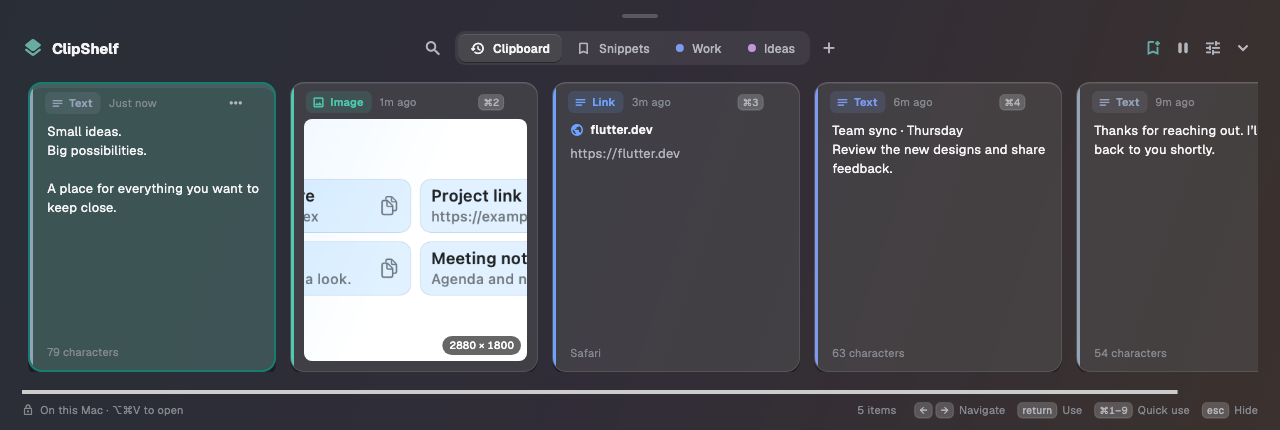
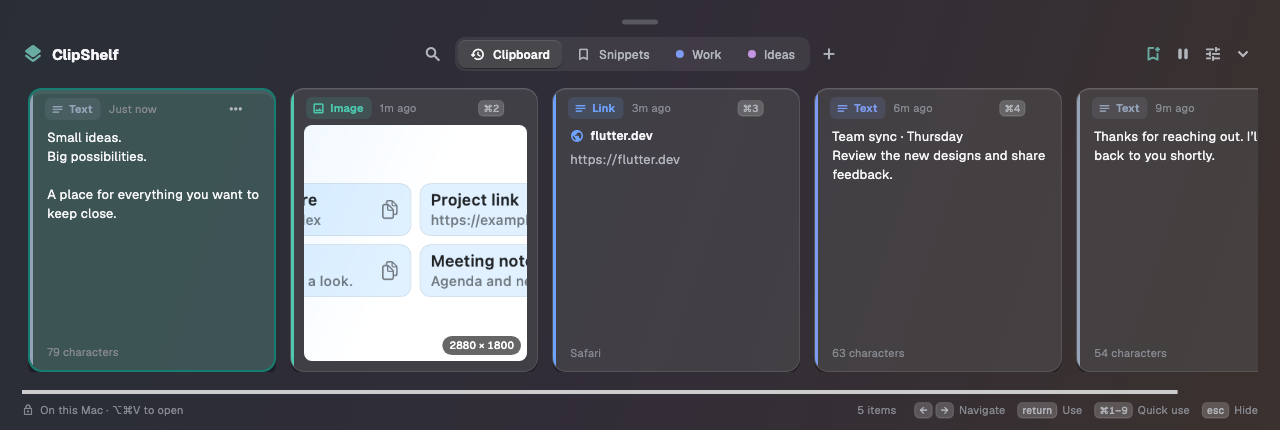
Shelf: ⌥⌘V toggles, slides in and out, handle closes it
- ⌥⌘V now toggles the shelf: it opens it, and closes it when it is
  already showing (like Spotlight and Raycast).
- The shelf slides up and fades in when it opens (0.22 s ease-out) and
  slides down and fades out when it closes (0.18 s ease-in), instead of
  appearing and vanishing. With Reduce Motion it only fades. Reopening
  mid-close cancels the pending hide.
- The grip at the top closes the shelf on a click or a downward drag,
  with hover feedback and a "Close (esc)" tooltip.
- Clicking outside, switching apps, Escape and pasting still close it.

Tests: native checks for the slide frame and Reduce Motion, a widget test
for the handle.

diff --git a/macos/Runner/MainFlutterWindow.swift b/macos/Runner/MainFlutterWindow.swift
@@ -261,7 +261,7 @@ final class ClipboardBridge: NSObject {
     InstallEventHandler(GetApplicationEventTarget(), { _, _, pointer in
       guard let pointer = pointer else { return OSStatus(eventNotHandledErr) }
       let bridge = Unmanaged<ClipboardBridge>.fromOpaque(pointer).takeUnretainedValue()
-      DispatchQueue.main.async { bridge.show() }
+      DispatchQueue.main.async { bridge.toggleShelf() }
       return noErr
     }, 1, &spec, Unmanaged.passUnretained(self).toOpaque(), &handler)
     let result = RegisterEventHotKey(UInt32(kVK_ANSI_V), UInt32(cmdKey | optionKey),
@@ -405,9 +405,49 @@ final class ClipboardBridge: NSObject {
     let wasVisible = window?.isVisible == true
     panelGeneration += 1
     saveFloatingFrame()
-    window?.orderOut(nil)
+    if wasVisible, presentation == "shelf", let window = window {
+      slideShelfOut(window, generation: panelGeneration)
+    } else {
+      window?.orderOut(nil)
+    }
     stopOutsideClickMonitoring()
     if wasVisible { channel.invokeMethod("closed", arguments: nil) }
+  }
+  /// ⌥⌘V opens the shelf, and closes it again when it is already showing.
+  @objc func toggleShelf() {
+    if presentation == "shelf", window?.isVisible == true { dismissPanel() } else { show() }
+  }
+  /// Where the shelf starts (opening) or ends (closing) its slide: a little
+  /// below its resting frame. With Reduce Motion it only fades.
+  static func shelfSlideFrame(_ frame: NSRect, reduceMotion: Bool) -> NSRect {
+    reduceMotion ? frame : frame.offsetBy(dx: 0, dy: -28)
+  }
+  private var reduceMotion: Bool { NSWorkspace.shared.accessibilityDisplayShouldReduceMotion }
+  func slideShelfIn(_ window: NSWindow) {
+    let target = window.frame
+    window.alphaValue = 0
+    window.setFrame(Self.shelfSlideFrame(target, reduceMotion: reduceMotion), display: false)
+    NSAnimationContext.runAnimationGroup { context in
+      context.duration = 0.22
+      context.timingFunction = CAMediaTimingFunction(name: .easeOut)
+      window.animator().setFrame(target, display: true)
+      window.animator().alphaValue = 1
+    }
+  }
+  func slideShelfOut(_ window: NSWindow, generation: Int) {
+    let resting = window.frame
+    NSAnimationContext.runAnimationGroup({ context in
+      context.duration = 0.18
+      context.timingFunction = CAMediaTimingFunction(name: .easeIn)
+      window.animator().setFrame(Self.shelfSlideFrame(resting, reduceMotion: reduceMotion), display: true)
+      window.animator().alphaValue = 0
+    }, completionHandler: { [weak self] in
+      // Reopened mid-animation: the newer session owns the window now.
+      guard let self = self, self.panelGeneration == generation else { return }
+      window.orderOut(nil)
+      window.alphaValue = 1
+      window.setFrame(resting, display: false)
+    })
   }
   func presentPanel() {
     panelGeneration += 1
@@ -468,8 +508,10 @@ final class ClipboardBridge: NSObject {
     if wasQuick, let window = window {
       window.setContentSize(NSSize(width: 1120, height: shelfHeight))
     }
+    let wasHidden = window?.isVisible != true
     positionShelf()
     presentPanel()
+    if wasHidden, let window = window { slideShelfIn(window) } else { window?.alphaValue = 1 }
     channel.invokeMethod("opened", arguments: "shelf")
     publish()
   }

diff --git a/lib/features/clipboard/presentation/widgets/clipboard_shelf.dart b/lib/features/clipboard/presentation/widgets/clipboard_shelf.dart
@@ -109,17 +109,8 @@ class ClipboardShelf extends ConsumerWidget {
         child: Column(
           crossAxisAlignment: CrossAxisAlignment.start,
           children: [
-            Center(
-              child: Container(
-                width: 36,
-                height: 4,
-                decoration: BoxDecoration(
-                  color: colors.strokeStrong,
-                  borderRadius: BorderRadius.circular(4),
-                ),
-              ),
-            ),
-            const SizedBox(height: 12),
+            Center(child: _ShelfHandle(onClose: () => actions.hide())),
+            const SizedBox(height: 6),
             Row(
               children: [
                 Icon(Icons.layers_rounded, color: colors.accentText, size: 22),
@@ -370,6 +361,62 @@ class ClipboardShelf extends ConsumerWidget {
               ],
             ),
           ],
+        ),
+      ),
+    );
+  }
+}
+
+/// The grip at the top of the shelf: click it, or drag it down, to close.
+class _ShelfHandle extends StatefulWidget {
+  const _ShelfHandle({required this.onClose});
+  final VoidCallback onClose;
+
+  @override
+  State<_ShelfHandle> createState() => _ShelfHandleState();
+}
+
+class _ShelfHandleState extends State<_ShelfHandle> {
+  bool _hovered = false;
+  double _drag = 0;
+
+  @override
+  Widget build(BuildContext context) {
+    final colors = context.shelf;
+    return Tooltip(
+      message: 'Close (esc)',
+      waitDuration: const Duration(milliseconds: 700),
+      child: MouseRegion(
+        cursor: SystemMouseCursors.click,
+        onEnter: (_) => setState(() => _hovered = true),
+        onExit: (_) => setState(() => _hovered = false),
+        child: GestureDetector(
+          behavior: HitTestBehavior.opaque,
+          onTap: widget.onClose,
+          onVerticalDragStart: (_) => _drag = 0,
+          onVerticalDragUpdate: (details) =>
+              setState(() => _drag = (_drag + details.delta.dy).clamp(0, 40)),
+          onVerticalDragEnd: (details) {
+            final flung = (details.primaryVelocity ?? 0) > 300;
+            if (_drag > 18 || flung) widget.onClose();
+            setState(() => _drag = 0);
+          },
+          child: SizedBox(
+            width: 96,
+            height: 16,
+            child: Center(
+              child: AnimatedContainer(
+                duration: const Duration(milliseconds: 120),
+                transform: Matrix4.translationValues(0, _drag / 3, 0),
+                width: _hovered ? 44 : 36,
+                height: 5,
+                decoration: BoxDecoration(
+                  color: _hovered ? colors.textTertiary : colors.strokeStrong,
+                  borderRadius: BorderRadius.circular(4),
+                ),
+              ),
+            ),
+          ),
         ),
       ),
     );

diff --git a/native_tests/main.swift b/native_tests/main.swift
@@ -273,6 +273,10 @@ let sizedPNG = sizeRep.representation(using: .png, properties: [:])!
 check(Clip.pixelSize(of: sizedPNG).map { $0 == (30, 20) } == true, "image cards read the original pixel size")
 check(ClipIcons.file("/nonexistent/backup.zip") != nil, "file cards get a type icon even when the file is gone")
 
+let restingShelf = NSRect(x: 12, y: 12, width: 1400, height: 430)
+check(ClipboardBridge.shelfSlideFrame(restingShelf, reduceMotion: false) == restingShelf.offsetBy(dx: 0, dy: -28), "shelf slides up from just below its resting frame")
+check(ClipboardBridge.shelfSlideFrame(restingShelf, reduceMotion: true) == restingShelf, "Reduce Motion: the shelf only fades")
+
 let localGroup = "ABCDE12345.clipshelf"
 check(WidgetFavoritesStore.authorizes(group: localGroup, memberships: [localGroup], signingTeam: "ABCDE12345"), "macOS Team-ID group accepts its actual signing team")
 check(!WidgetFavoritesStore.authorizes(group: localGroup, memberships: [localGroup], signingTeam: "OTHER12345"), "macOS Team-ID group rejects a different signer")

diff --git a/test/widget_test.dart b/test/widget_test.dart
@@ -456,6 +456,20 @@ void main() {
     expect(find.textContaining('Screenshot · '), findsOneWidget);
     expect(find.textContaining('2880 × 1800'), findsOneWidget);
   });
+  testWidgets('The shelf handle closes the shelf on a click or a drag down', (
+    tester,
+  ) async {
+    await load(tester);
+    await tester.tap(find.byTooltip('Close (esc)'));
+    await tester.pumpAndSettle();
+    expect(calls.where((c) => c.method == 'hide'), hasLength(1));
+    await tester.drag(find.byTooltip('Close (esc)'), const Offset(0, 40));
+    await tester.pumpAndSettle();
+    expect(calls.where((c) => c.method == 'hide'), hasLength(2));
+    await tester.drag(find.byTooltip('Close (esc)'), const Offset(0, -40));
+    await tester.pumpAndSettle();
+    expect(calls.where((c) => c.method == 'hide'), hasLength(2)); // up: no
+  });
   testWidgets('Menu-bar panel opens the snippet editor in one click', (
     tester,
   ) async {
